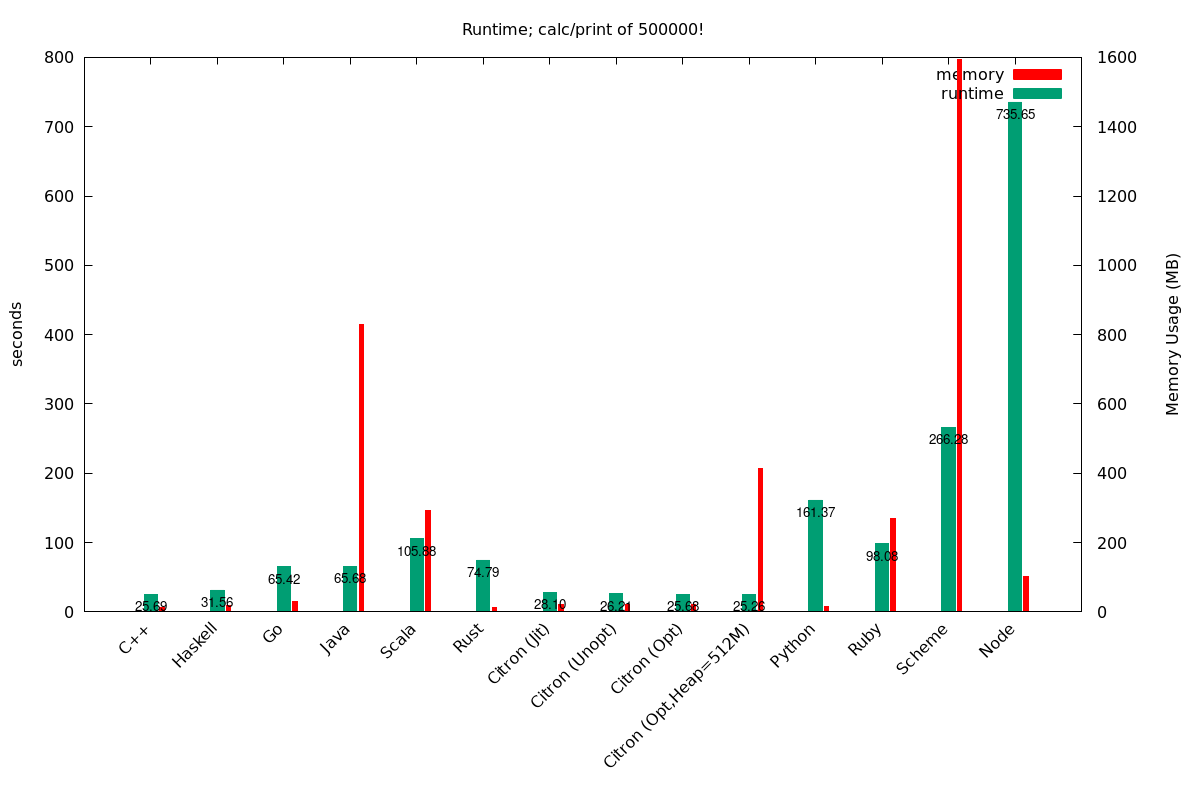
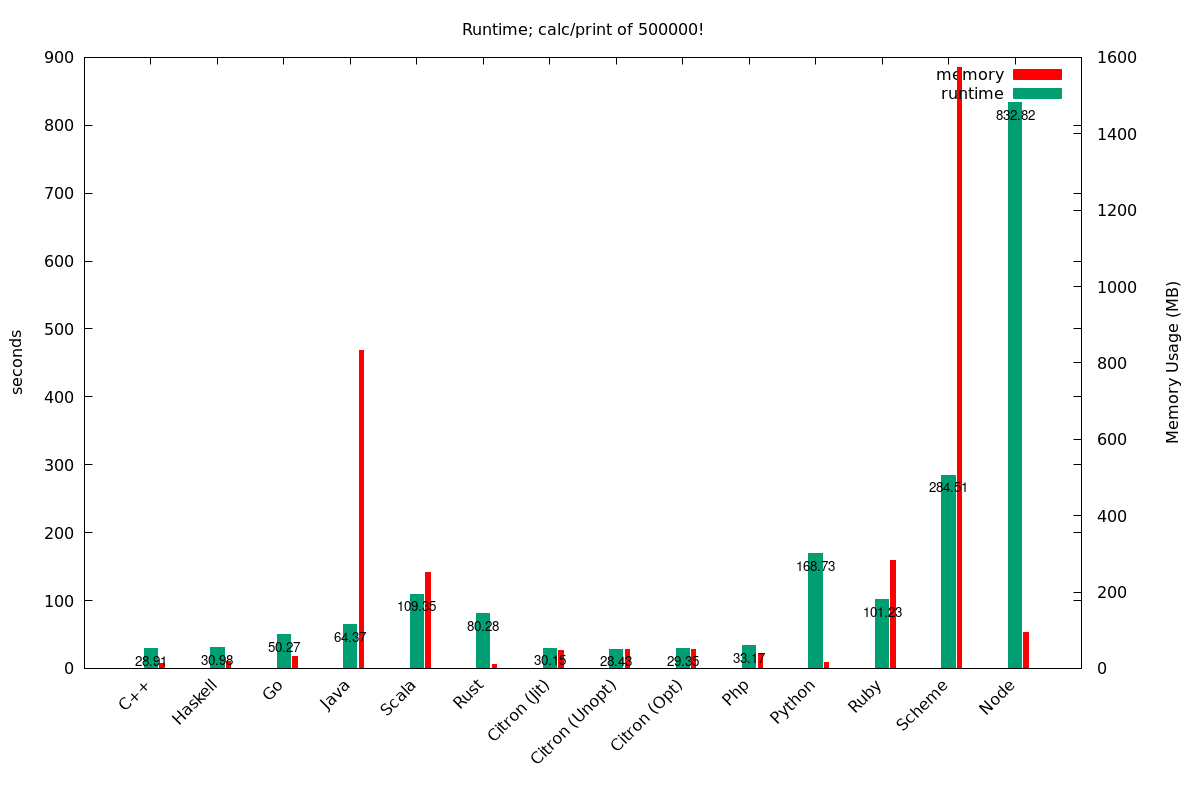
Add PHP

diff --git a/php.php b/php.php
@@ -1,0 +1,3 @@
+<?php
+    echo array_reduce(range(2, 500000), 'gmp_mul', gmp_strval("1", 10));
+?>
